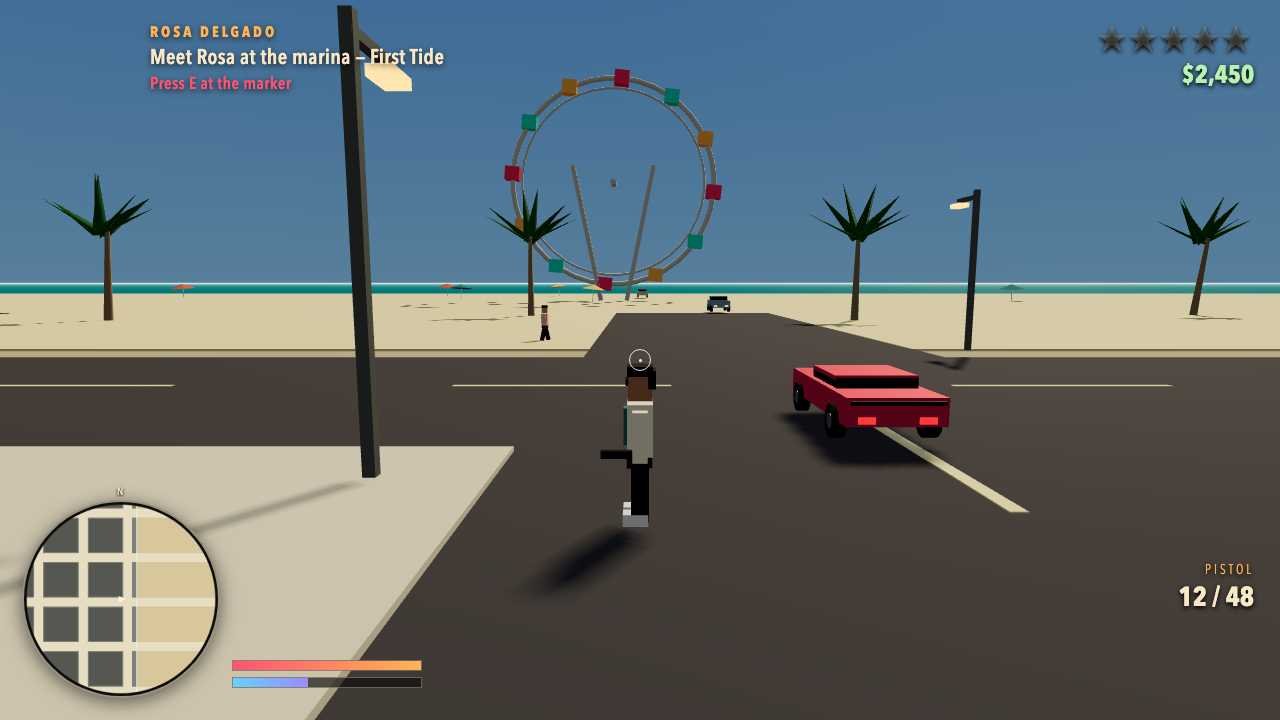
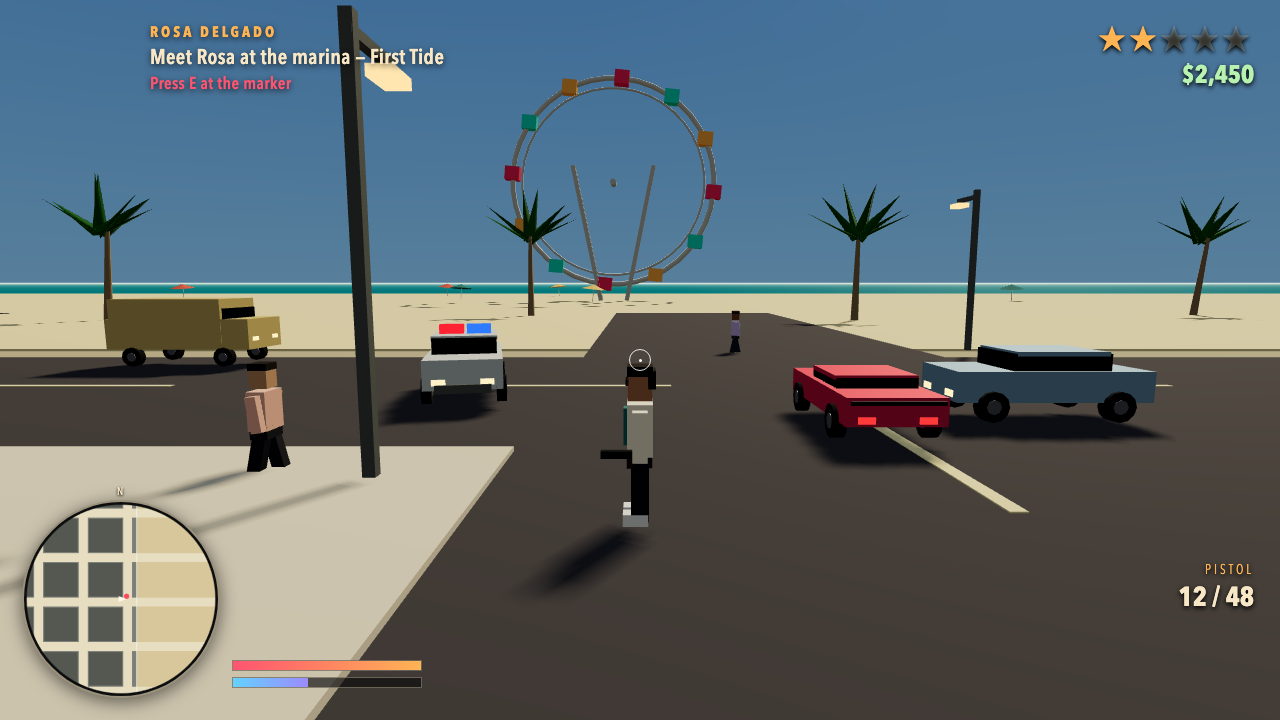
Stage the screenshots around the police chase
Cover: a cruiser with its red and blue bar lit on the beach road, traffic and pedestrians
around it. Chase: two cruisers on the player's quarters, a roadblock ahead and a cop on
foot firing. A screen-space probe keeps the framing measurable.

diff --git a/game/src/shots.js b/game/src/shots.js
@@ -2,6 +2,8 @@
 // Four deterministic staged scenes for ?shot=<name>&seed=<n>: the cover on the beach road, a
 // three-star chase, the docks shootout and the dusk run up the coast. No input needed; each
 // places the world, settles traffic and lights, renders and sets window.__shotReady.
+// window.__shotProbe() reports where the hero car, the cruisers and the wheel land on screen, so
+// the framing can be checked from the shell instead of by eye.
 
 import * as THREE from 'three';
 import { PLACES } from './world/city.js';
@@ -13,7 +15,14 @@ import { stageMission } from './systems/missions.js';
 import { updateCamera } from './camera.js';
 import { drawMinimap } from './ui/minimap.js';
 
+// What the active shot wants measured: the hero car, the cruisers in pursuit and the roadblock.
+const probeRefs = { shot: '', car: null, cruisers: [], roadblock: [] };
+
 export function runShot(name, state) {
+  probeRefs.shot = name;
+  probeRefs.car = null;
+  probeRefs.cruisers = [];
+  probeRefs.roadblock = [];
   state.menu.hide();
   state.hud.show();
   state.mode = 'play';
@@ -27,6 +36,7 @@ export function runShot(name, state) {
   shot(state);
   settle(state, 45);
   finish(state, name);
+  window.__shotProbe = () => probe(state);
 }
 
 const SHOTS = {
@@ -41,26 +51,39 @@ function stageCover(state) {
   state.money = 2450;
   state.player.health = 100;
   state.player.armour = 40;
-  state.police.wanted = 0;
+  state.police.wanted = 2;
   state.weapons.pistol = { mag: 12, reserve: 48 };
   state.weapon = 'pistol';
-  // A street canyon running down to the water: hero on the kerb, the Manta at the lights.
+  // The beach road at midday: hero on the kerb, the Manta at the lights, a cruiser answering.
   placePlayer(state.player, 468, 154.5, Math.PI / 2);
   state.player.rig.root.rotation.y = Math.PI / 2;
   state.player.pos.y = 0.25;
 
   const car = addCar(state, 'sports', 0xff5470, 474, 159.5, Math.PI / 2);
   car.wheels.forEach((wheel) => { wheel.spin.rotation.x = 0.6; });
+  probeRefs.car = car;
 
-  addCar(state, 'sedan', 0x9fc2d8, 530, 163, -Math.PI / 2);
-  addCar(state, 'sedan', 0xf3e7cd, 590, 155, Math.PI / 2);
-  addCar(state, 'van', 0xf5d78a, 398, 164, Math.PI / 2);
+  // The cruiser answering, angled toward the camera with its bar lit red and blue.
+  const cruiser = addCruiser(state, 478, 149.5, -1.35);
+  litBar(cruiser, 0xff2233, 0x2f7bff);
+  probeRefs.cruisers = [cruiser];
+  state.police.units = [policeUnit(cruiser)];
 
-  const ped = createPerson({ jacket: 0xf2b8a2, shirt: 0xa8d8cd, pants: 0x24262e, skin: 0xc99b74, hair: 0x221a16 });
-  ped.root.position.set(497, 0.25, 149);
-  ped.root.rotation.y = Math.PI;
-  posePerson(ped, 1.4, 0.3);
-  state.scene.add(ped.root);
+  // Ordinary traffic, one car each way down the beach road.
+  addCar(state, 'sedan', 0x9fc2d8, 475, 164, Math.PI);
+  addCar(state, 'van', 0xf5d78a, 485, 137, 0);
+
+  // Two people walking: one on the near kerb, one across the road on the far pavement.
+  for (const [x, z, yaw, colors] of [
+    [470.5, 148, Math.PI, { jacket: 0xf2b8a2, shirt: 0xa8d8cd, pants: 0x24262e, skin: 0xc99b74, hair: 0x221a16 }],
+    [490, 159, 0, { jacket: 0xc9b6dc, shirt: 0xf7f4ea, pants: 0x2f3a48, skin: 0x8a5a3c, hair: 0x1a1410 }],
+  ]) {
+    const ped = createPerson(colors);
+    ped.root.position.set(x, 0.25, z);
+    ped.root.rotation.y = yaw;
+    posePerson(ped, 1.4, 0.3);
+    state.scene.add(ped.root);
+  }
 
   state.objectiveTitle = 'ROSA DELGADO';
   state.objectiveText = 'Meet Rosa at the marina — First Tide';
@@ -86,6 +109,7 @@ function stageChase(state) {
   state.player.group.visible = false;
   state.player.pos.copy(car.pos);
   state.player.yaw = car.heading;
+  probeRefs.car = car;
 
   // Clear the kerb behind the camera: a parked car there fills half the frame.
   for (const other of state.vehicles) {
@@ -95,25 +119,33 @@ function stageChase(state) {
     if (Math.hypot(dx, dz) < 16) other.root.visible = false;
   }
 
-  const cruiser = createVehicle('police', 0xf3f5f2, state.scene);
-  placeVehicle(cruiser, 488, -9, 0.12);
-  state.vehicles.push(cruiser);
-  cruiser.speed = 18;
-  const second = createVehicle('police', 0xf3f5f2, state.scene);
-  placeVehicle(second, 471, -3, -0.16);
-  state.vehicles.push(second);
-  second.speed = 15;
-
-  state.police.units = [
-    { vehicle: cruiser, alive: true, pos: cruiser.pos, type: 'car', isCop: true, shootTimer: 1, footSpawned: true, health: 100 },
-    { vehicle: second, alive: true, pos: second.pos, type: 'car', isCop: true, shootTimer: 1, footSpawned: true, health: 100 },
-  ];
+  // The dispatcher needs one tick before it can read the player and set a block. Tick it while
+  // the level is still clear so the scanner does not fire a line the still cannot show.
+  state.dispatch.update(1 / 60, state);
   reportCrime(state.police, 3);
   state.police.wanted = 3;
+  const before = state.vehicles.length;
+  state.dispatch.call('roadblock');
+  const block = state.vehicles.slice(before);
+  // Pulled in from 64 m ahead: at that range the cruisers are 40 px wide and read as parked cars.
+  block.forEach((blockCar, index) => {
+    placeVehicle(blockCar, 480 + (index - 1) * 7, -9, Math.PI / 2);
+    litBar(blockCar, 0xff2233, 0x2f7bff);
+  });
+  probeRefs.roadblock = block;
+
+  // Boxed in: one cruiser at each rear quarter, red lit on the right and blue lit on the left.
+  const red = addCruiser(state, 474, -23.5, 0.05);
+  litBar(red, 0xff2233, 0x2a3f7a);
+  const blue = addCruiser(state, 486.5, -22, -0.06);
+  litBar(blue, 0x4a1418, 0x2f7bff);
+  probeRefs.cruisers = [red, blue];
+
+  state.police.units = [policeUnit(red), policeUnit(blue)];
   state.police.units.forEach((unit) => { unit.alive = true; });
 
   const cop = createPerson({ jacket: 0x27395c, shirt: 0xd7e2ec, pants: 0x1b2534, skin: 0xb9825e, hair: 0x1a1410 }, true);
-  cop.root.position.set(494, 0.25, 4);
+  cop.root.position.set(491, 0.25, -18);
   cop.root.rotation.y = -Math.PI / 2;
   posePerson(cop, 0, 0.1, true);
   state.scene.add(cop.root);
@@ -129,7 +161,7 @@ function stageChase(state) {
   state.objectiveTimer = 'Wanted level must clear';
   state.missionBlip = { x: PLACES.marina.x, z: PLACES.marina.z };
   state.view.yaw = Math.PI;
-  state.view.pitch = 0.16;
+  state.view.pitch = 0.22;
   state.view.distance = 9.4;
 }
 
@@ -220,6 +252,28 @@ function addCar(state, kind, color, x, z, heading) {
   return car;
 }
 
+function addCruiser(state, x, z, heading) {
+  const cruiser = createVehicle('police', 0xf3f5f2, state.scene);
+  placeVehicle(cruiser, x, z, heading);
+  state.vehicles.push(cruiser);
+  return cruiser;
+}
+
+/** The stock bar sits inside the cabin box; lift it onto the roof and paint it so the still reads police. */
+function litBar(car, left, right) {
+  const [red, blue] = car.lights.bar;
+  red.position.set(-0.38, 1.86, -0.1);
+  blue.position.set(0.38, 1.86, -0.1);
+  red.scale.set(1.6, 1.7, 1.2);
+  blue.scale.set(1.6, 1.7, 1.2);
+  red.material.color.setHex(left);
+  blue.material.color.setHex(right);
+}
+
+function policeUnit(vehicle) {
+  return { vehicle, alive: true, pos: vehicle.pos, type: 'car', isCop: true, shootTimer: 1, footSpawned: true, health: 100 };
+}
+
 function settle(state, steps) {
   for (let i = 0; i < steps; i++) {
     state.traffic.update(1 / 60, state);
@@ -249,4 +303,39 @@ function finish(state, name) {
     state.renderer.render(state.scene, state.camera);
     window.__shotReady = true;
   });
+}
+
+function projectPoint(camera, v) {
+  const p = v.clone().project(camera);
+  const a = camera.position.distanceTo(v);
+  return { x: +p.x.toFixed(3), y: +p.y.toFixed(3), z: +p.z.toFixed(3), dist: +a.toFixed(1) };
+}
+
+/** Projected height of a 2 m vertical segment at v, in NDC (screen height = 2). */
+function screenSize(camera, v) {
+  const base = v.clone().project(camera);
+  const top = v.clone().add(new THREE.Vector3(0, 2, 0)).project(camera);
+  return +Math.abs(top.y - base.y).toFixed(3);
+}
+
+function barPoint(car) {
+  car.root.updateMatrixWorld(true);
+  return car.lights.bar[0].getWorldPosition(new THREE.Vector3());
+}
+
+function probe(state) {
+  const points = {};
+  const add = (label, v) => {
+    points[label] = { ...projectPoint(state.camera, v), size: screenSize(state.camera, v) };
+  };
+  const car = probeRefs.car ?? state.player.inVehicle;
+  if (car) add('car', car.pos.clone().add(new THREE.Vector3(0, 0.9, 0)));
+  // Falls back to the live police units so the probe also measures the pre-rework chase.
+  const cruisers = probeRefs.cruisers.length
+    ? probeRefs.cruisers
+    : (state.police.units ?? []).map((unit) => unit.vehicle).filter(Boolean);
+  cruisers.forEach((cruiser, index) => add(`cruiser-${index + 1}`, barPoint(cruiser)));
+  probeRefs.roadblock.forEach((cruiser, index) => add(`roadblock-${index + 1}`, barPoint(cruiser)));
+  if (state.city.wheel) add('wheel', state.city.wheel.spin.getWorldPosition(new THREE.Vector3()));
+  return { shot: probeRefs.shot, points };
 }
